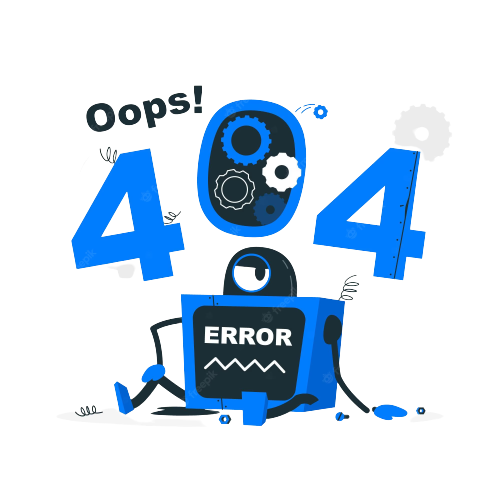
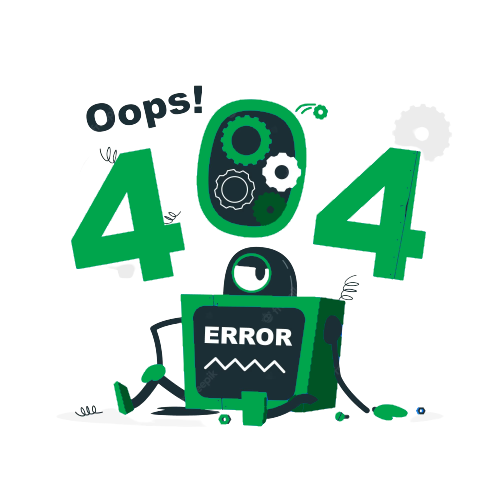
Not Found Page done(?)

diff --git a/src/app/not-found.tsx b/src/app/not-found.tsx
@@ -1,11 +1,19 @@
 'use client';
 
 import { useRouter } from 'next/navigation';
+import Image from 'next/image';
+import notFound from '../../public/images/notFound.png'
+import Link from 'next/link';
 
 export default function Custom404() {
   const router = useRouter();
   return (
     <>
+      <section className="not-found">
+        <Image src={notFound} alt='' className='m-auto'></Image>
+        <p className="text-5xl text-center">The page or the resource you are searching for can not be found!</p>
+        <p className="text-2xl text-center">Please, leave this page and <Link className='text-primary' href="/someLinkHere">return here</Link>.</p>
+      </section>
     </>
   );
 }
